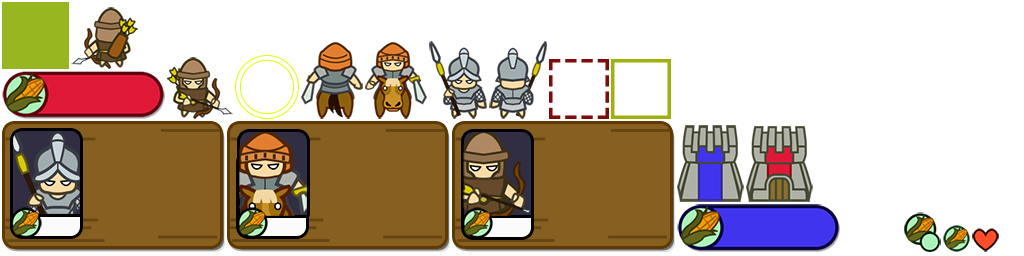
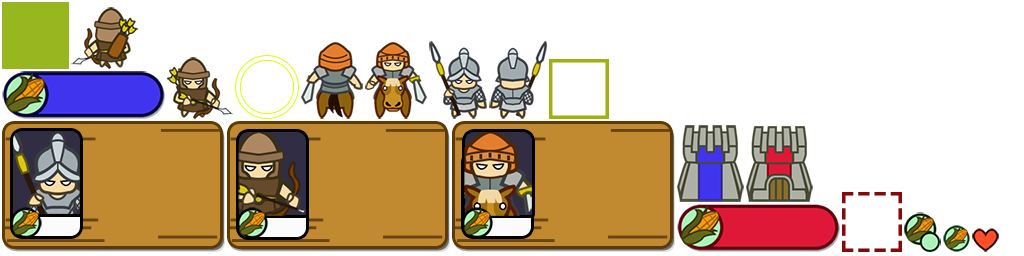
reselect created unit

diff --git a/core/src/com/olan/warmonger/states/StateUnitCreating.java b/core/src/com/olan/warmonger/states/StateUnitCreating.java
@@ -87,6 +87,9 @@ public class StateUnitCreating implements GameDriven.State {
 
   @Override
   public void onUnitFactoryClicked (Unit unit) {
-
+    if (createdUnit.getClass() != unit.getClass()) {
+      map.removeActor(createdUnit);
+      map.setState(new StateUnitCreating(map, unit));
+    }
   }
 }
